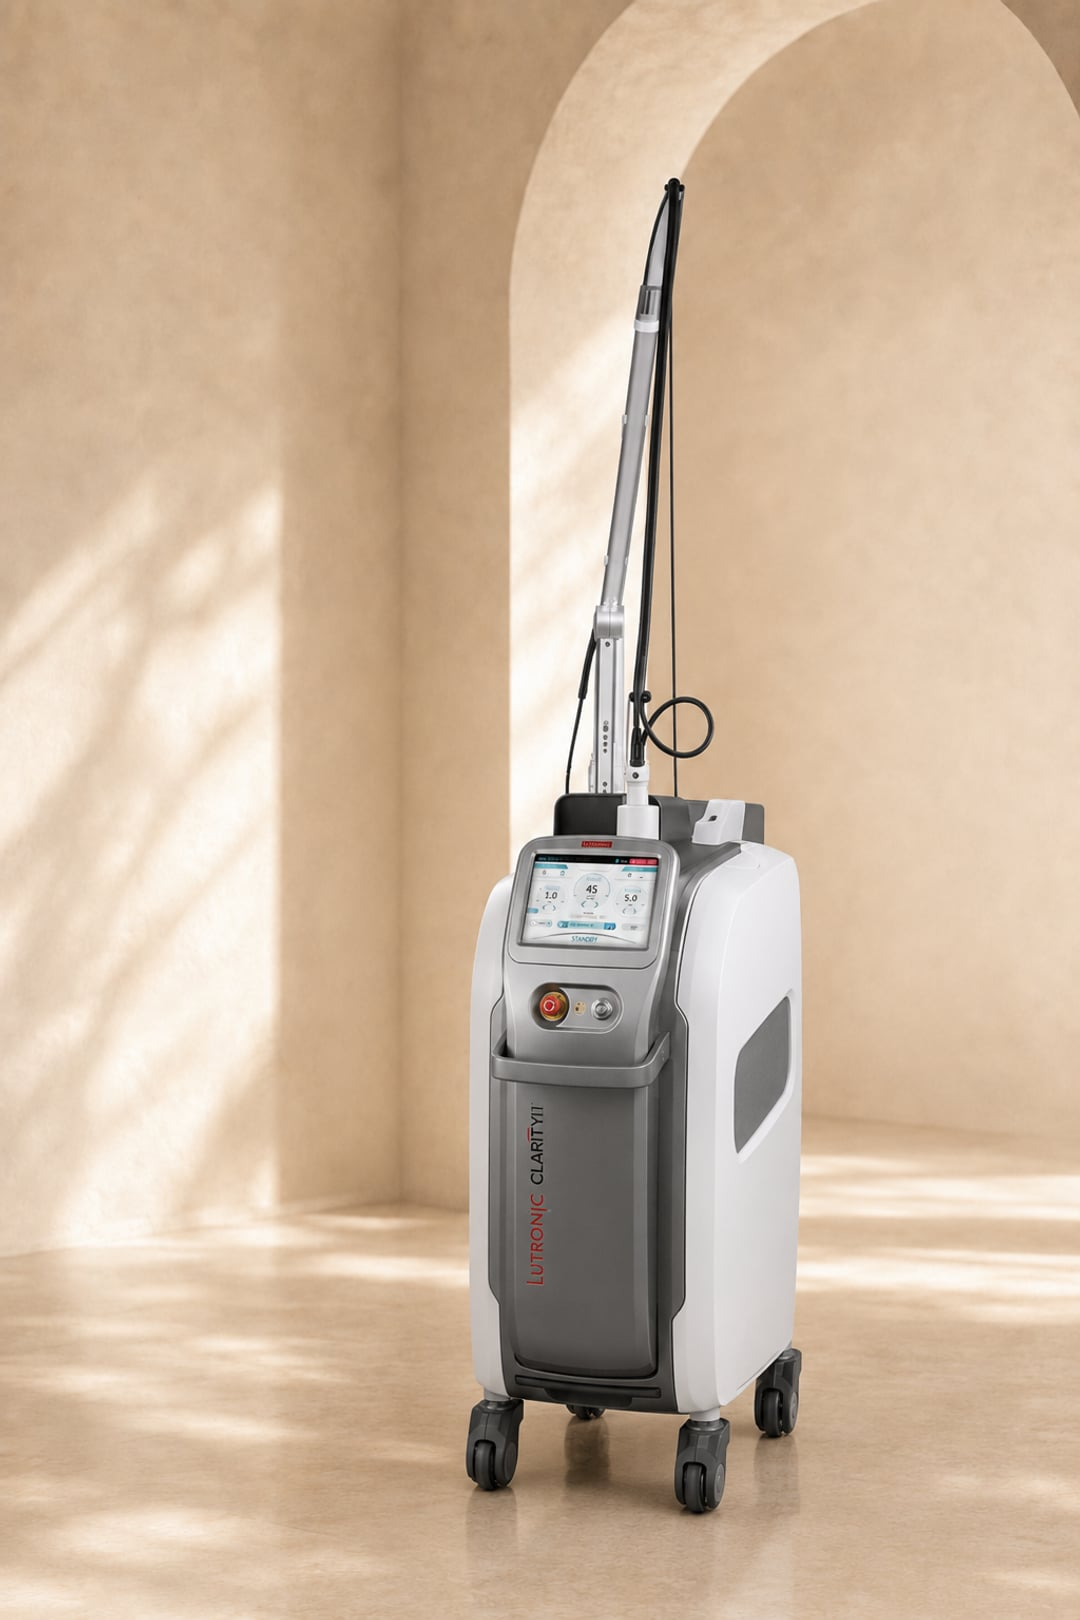
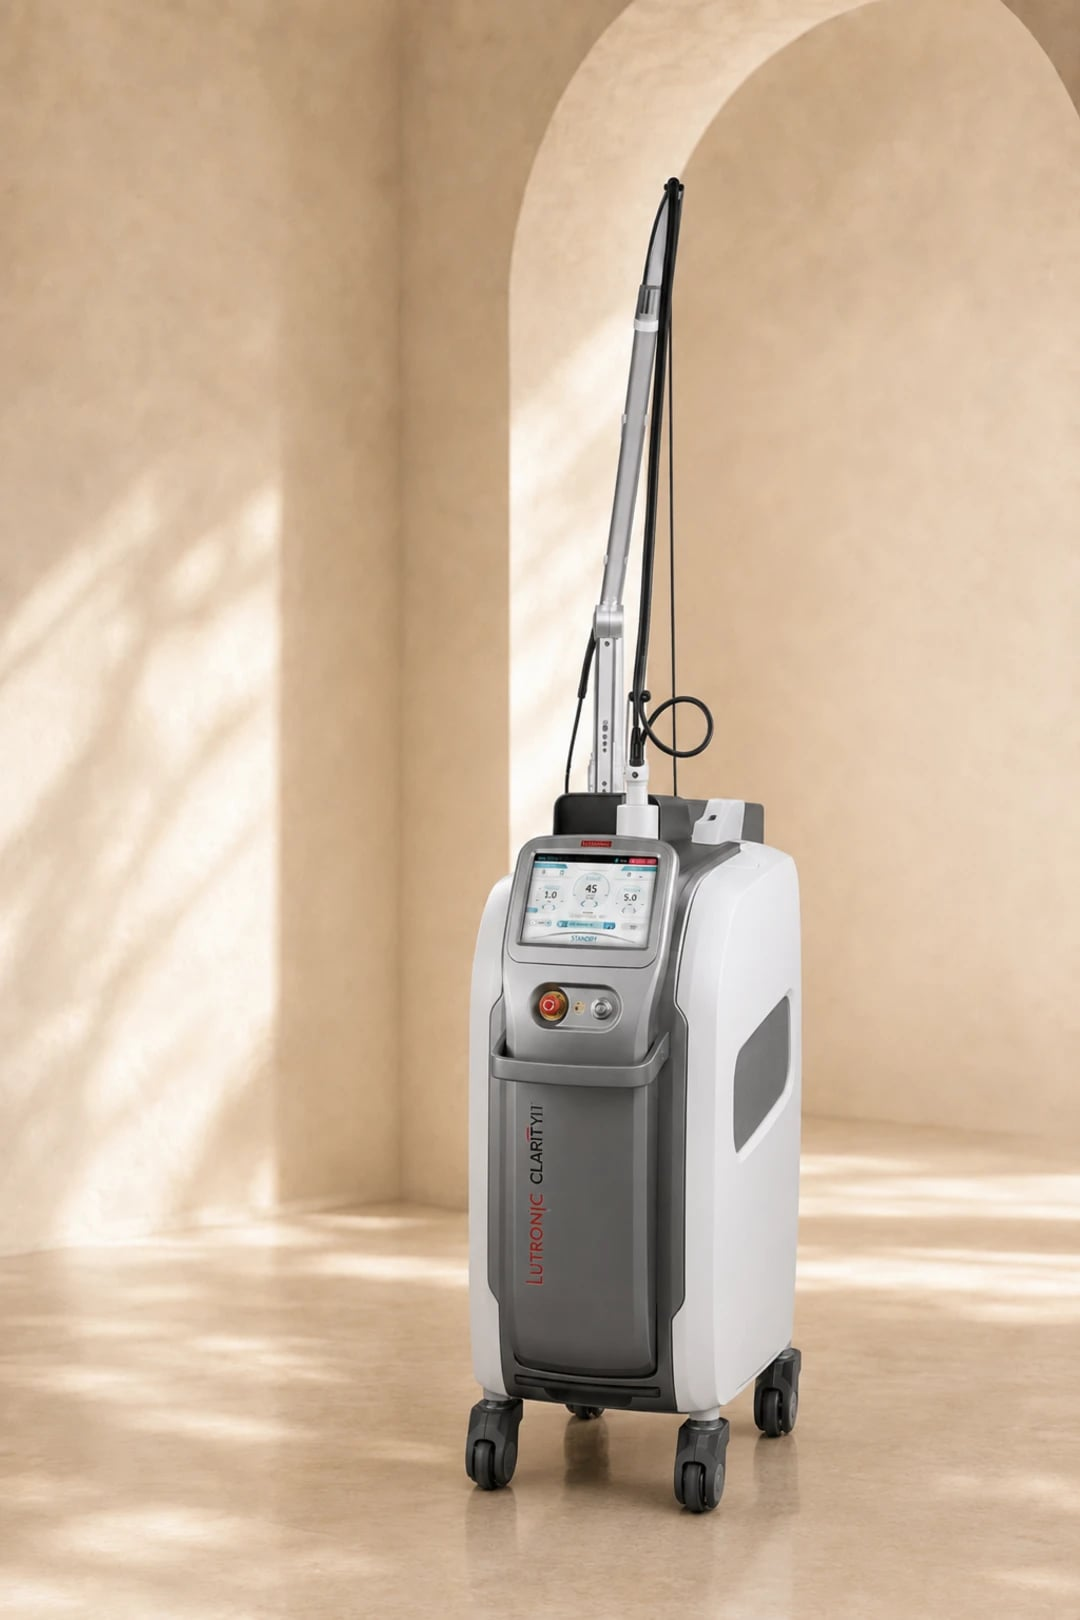
treatment/mobile: 장비 5종 모바일 히어로 이미지 적용 (#31)
- 아쿠아필·벨라룩스·카프리·CO2 신규, 클라리티II 교체(?v=2)

diff --git a/lib/devices.ts b/lib/devices.ts
@@ -194,7 +194,11 @@ const DEVICE_HERO_MOBILE: Record<string, string> = {
   "thermage-flx": "/devices/thermage-flx-hero-m.jpg",
   "shurink-universe": "/devices/shurink-universe-hero-m.jpg",
   inmode: "/devices/inmode-hero-m.jpg",
-  "clarity-ii": "/devices/clarity-ii-hero-m.jpg",
+  "clarity-ii": "/devices/clarity-ii-hero-m.jpg?v=2",
+  "aqua-peel": "/devices/aqua-peel-hero-m.jpg",
+  bellalux: "/devices/bellalux-hero-m.jpg",
+  "carpri-co2": "/devices/carpri-co2-hero-m.jpg",
+  "markview-co2": "/devices/markview-co2-hero-m.jpg",
   ellanse: "/devices/ellanse-hero-m.jpg",
   rejuran: "/devices/rejuran-hero-m.jpg",
   juvelook: "/devices/juvelook-hero-m.jpg",
